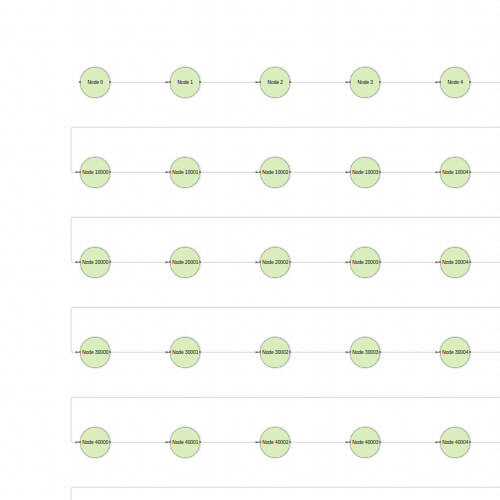
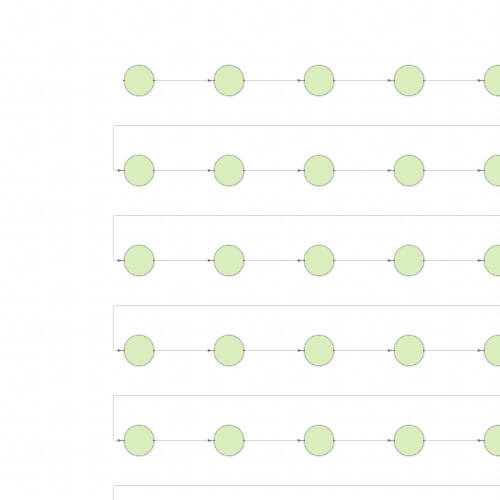
updated previews

diff --git a/static/use-cases/virtual-scroll/index.html b/static/use-cases/virtual-scroll/index.html
@@ -160,7 +160,6 @@
                 const j = Math.floor(iter / layer);
 
                 const request = this.createNode({
-                  name: `Node ${iter}`,
                   x: i * 300,
                   y: j * 300,
                   frontPortId,
@@ -187,19 +186,16 @@
           }
         }
 
-        createNode({ name, x, y, frontPortId, backPortId }) {
+        createNode({ x, y, frontPortId, backPortId }) {
           const node = document.createElement("div");
-          const text = document.createElement("div");
           const frontPort = document.createElement("div");
           const backPort = document.createElement("div");
 
           node.classList.add("node");
           frontPort.classList.add("node-port");
           backPort.classList.add("node-port");
-          text.innerText = name;
 
           node.appendChild(frontPort);
-          node.appendChild(text);
           node.appendChild(backPort);
 
           return {
